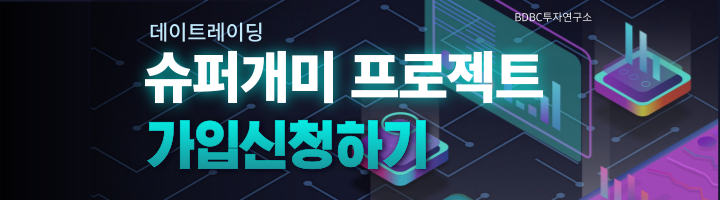
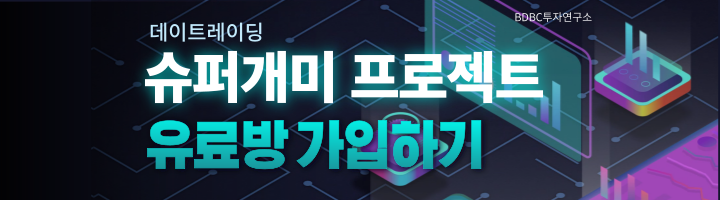
run121221

Changed region(s): [[0.1833, 0.6, 0.6722, 0.87], [0.275, 0.84, 0.3361, 0.87]]

diff --git a/rule/이용약관.html b/rule/이용약관.html
@@ -62,8 +62,15 @@
                 <li><a class="dropdown-item" href="https://bdbcinvest.kro.kr/rule/내부통제기준.html">내부통제 기준</a></li>
               </ul>
             </li>
-            <li class="nav-item">
-              <a class="nav-link" target="_blank" href="https://docs.google.com/forms/d/e/1FAIpQLScll9XCgVUi_xm8oJ2P9vaxQmY382F0giK_-i0nk6JN6NfACQ/viewform?usp=sf_link">가입신청</a>
+            <li class="nav-item dropdown">
+              <a class="nav-link dropdown-toggle" href="#" role="button" data-bs-toggle="dropdown" aria-expanded="false">
+                가입신청
+              </a>
+              <ul class="dropdown-menu">
+                <li><a class="dropdown-item" href="https://t.me/+YQYukZMtKvo5NTM1">무료버전 가입신청</a></li>
+                <li><hr class="dropdown-divider"></li>
+                <li><a class="dropdown-item" href="https://docs.google.com/forms/d/e/1FAIpQLScll9XCgVUi_xm8oJ2P9vaxQmY382F0giK_-i0nk6JN6NfACQ/viewform?usp=sf_link">유료버전 가입신청</a></li>
+              </ul>
             </li>
             <li class="nav-item">
               <a class="nav-link" target="_blank" href="https://happytalk.io/l/rvfoxn">고객센터</a>
@@ -115,6 +122,7 @@
 ① "서비스"라 함은 구현되는 단말기(PC, TV, 휴대형단말기 등의 각종 유무선 장치를 포함)와 상관없이 "회원"이 이용할 수 있는 BDBC투자연구소 및 BDBC투자연구소 관련 제반 서비스를 의미합니다.</br>
 ② "회원"이라 함은 회사의 "서비스"에 접속하여 이 약관에 따라 "회사"와 이용계약을 체결하고 "회사"가 제공하는 "서비스"를 이용하는 고객을 말합니다.</br>
 ③ "유료서비스"라 함은 "회사"가 유료로 제공하는 각종 온라인디지털콘텐츠(각종 정보콘텐츠, VOD, 아이템 기타 유료콘텐츠를 포함) 및 제반 서비스를 의미합니다.</br>
+④ "무료서비스"라 함은 "회사"가 무료로 제공하는 각종 온라인디지털콘텐츠(각종 정보콘텐츠, VOD, 아이템 기타 유료콘텐츠를 포함) 및 제반 서비스를 의미합니다.
 정의한 용어를 제외한 용어의 정의는 거래 관행 및 관련 법령을 따릅니다.</br></br>
 
 
@@ -123,7 +131,8 @@
 
 제 6 조 (이용신청)</br>
 ① 서비스를 이용하고자 하는 고객은 약관의 내용에 대하여 동의를 한 다음 서비스 이용신청을 진행함으로써 이용을 신청합니다.</br>
-② 제1항의 약관 동의 시 서비스를 이용하고자 하는 고객이 "위의 이용약관에 동의하십니까?"라는 이용신청시의 물음에 "동의함" 버튼을 누르면 이 약관에 동의하는 것으로 간주됩니다.</br>
+② "유료서비스"의 경우 제1항의 약관 동의 시 서비스를 이용하고자 하는 고객이 "위의 이용약관에 동의하십니까?"라는 이용신청시의 물음에 "동의함" 버튼을 누르면 이 약관에 동의하는 것으로 간주됩니다.</br>
+④ "무료서비스"의 경우 제1항의 약관 동의 시 서비스를 이용하고자 하는 고객이 "회사"가 운영하는 정보콘텐츠 서비스의 "입장신청" 버튼을 누르면 이 약관에 동의하는 것으로 간주됩니다.</br>
 ③ 온라인 가입신청양식에 기재하는 모든 회원정보는 실제와 일치하는 데이터인 것으로 간주됩니다. 고객이 가입신청양식에 실명이나 실제정보를 입력하지 않은 경우에는 법적인 보호를 받을 수 없으며, 회사는 당해 고객에 대하여 서비스의 이용을 제한할 수 있습니다.</br></br>
 
 제 7 조 (이용신청의 승낙)</br>
@@ -136,7 +145,8 @@
 3. 이용신청자가 회사의 채무자로서 채무를 완제하지 않고 있는 경우</br>
 4. 이용신청자가 이 약관 제22조 제2항에 의거하여 이용계약이 해지된 사실이 있는 경우로서 회사의 서비스 운영을 저해할 것으로 판단되는 경우</br>
 5. 이용신청자가 선량한 풍속 기타 사회질서를 저해하거나 저해할 목적으로 신청한 경우</br>
-6. 제17조 제1항을 위반하여 강제 탈퇴된 사용자와 동일한 IP 또는 동일하거나 유사한 아이디를 사용하는 이용신청자로서 회사의 운영을 저해할 것으로 판단되는 경우</br>
+6. 이용신청자가 서비스를 이용할 때 이용신청자 본인 또는 회사에 심각한 문제가 발생할 것으로 판된되는 경우
+7. 제17조 제1항을 위반하여 강제 탈퇴된 사용자와 동일한 IP 또는 동일하거나 유사한 아이디를 사용하는 이용신청자로서 회사의 운영을 저해할 것으로 판단되는 경우</br>
 ② 회사는 14세 미만 아동의 이용신청에 대하여는 승낙을 하지 않습니다.</br>
 ③ 회사는 다음 각 호에 해당하는 경우에는 그 사유가 해소될 때까지 이용신청에 대한 승낙을 보류할 수 있으며, 그 사유를 웹사이트에 공지합니다.</br>
 1. 설비의 여유가 없는 경우</br>
@@ -160,7 +170,7 @@
 제 12 조 (서비스의 이용요금)</br>
 ① 별도로 표시된 유료서비스를 제외한 모든 서비스는 회원들에게 무료로 제공됩니다.</br>
 ② 유료서비스의 이용요금 및 결제방식은 해당 서비스에 명시되어 있는 별도의 규정에 따릅니다.</br>
-1. 슈퍼개미 프로젝트 – 요금/66,000원, 이용기간/영업일 20일, 결제방식/계좌이체</br></br>
+1. 슈퍼개미 프로젝트 – 요금/44,000원, 이용기간/영업일 20일, 결제방식/계좌이체</br></br>
 
 제 13 조 (서비스의 이용시간)</br>
 ① 서비스의 이용은 연중 무휴, 1일 24시간을 원칙으로 합니다. 다만, 회사는 설비의 정기점검, 보수, 교체 및 고장 등 업무상, 기술상의 이유로 서비스 이용의 전부 또는 일부를 제한할 수 있으며, 이 경우 회사는 사전 또는 사후에 관련 사항을 공지합니다.</br>

diff --git a/index.html b/index.html
@@ -77,8 +77,15 @@
                 <li><a class="dropdown-item" href="https://bdbcinvest.kro.kr/rule/내부통제기준.html">내부통제 기준</a></li>
               </ul>
             </li>
-            <li class="nav-item">
-              <a class="nav-link" target="_blank" href="https://docs.google.com/forms/d/e/1FAIpQLScll9XCgVUi_xm8oJ2P9vaxQmY382F0giK_-i0nk6JN6NfACQ/viewform?usp=sf_link">가입신청</a>
+            <li class="nav-item dropdown">
+              <a class="nav-link dropdown-toggle" href="#" role="button" data-bs-toggle="dropdown" aria-expanded="false">
+                가입신청
+              </a>
+              <ul class="dropdown-menu">
+                <li><a class="dropdown-item" href="https://t.me/+YQYukZMtKvo5NTM1">무료버전 가입신청</a></li>
+                <li><hr class="dropdown-divider"></li>
+                <li><a class="dropdown-item" href="https://docs.google.com/forms/d/e/1FAIpQLScll9XCgVUi_xm8oJ2P9vaxQmY382F0giK_-i0nk6JN6NfACQ/viewform?usp=sf_link">유료버전 가입신청</a></li>
+              </ul>
             </li>
             <li class="nav-item">
               <a class="nav-link" target="_blank" href="https://happytalk.io/l/rvfoxn">고객센터</a>
@@ -93,13 +100,7 @@
 
     <section id="katalkSection">
       <div class="box1">
-        <h3>BDBC 투자철학</h3>
-        <p>Ⅰ. 1%의 세력과 9% 개미가 돈을 벌고 나머지 90%는 돈을 잃는다.</p>
-        <p>Ⅱ. 무조건 성공하는 방법은 없다.</p>
-        <p>Ⅲ. 분산 투자를 통해 리스크를 제한하고 이익을 극대화한다.</p>
-        <p>Ⅳ. 여유자금과 자금 분산을 통해 심리적 안정을 제공한다.</p>
-        <p>Ⅴ. BDBC는 선의의 따라 최고의 정보를 제공한다.</p>
-        <p>그 외 궁금한 내용은 문의해주세요.</p>
+        <img src="mainimage/main123.png" alt="">
       </div>
       <div class="box2">
         <iframe width="100%" height="100%" src="https://www.youtube.com/embed/5r_wWThrkuA?si=OrZgAroWVmm8m9fS" title="YouTube video player" frameborder="0" allow="accelerometer; autoplay; clipboard-write; encrypted-media; gyroscope; picture-in-picture; web-share" referrerpolicy="strict-origin-when-cross-origin" allowfullscreen></iframe>
@@ -107,14 +108,14 @@
     </section>
 
     <section id="bannerSection">
-      <a href="https://bdbcinvest.kro.kr/reading/danta.html" target="_blank" name="스윙방배너">
-        <img src="mainimage/main123.png" alt="">
+      <a href="https://t.me/+YQYukZMtKvo5NTM1" target="_blank" name="스윙방배너">
+        <img src="mainimage/main2.png" alt="">
+      </a>
+      <a href="https://t.me/+YQYukZMtKvo5NTM1" target="_blank" name="문의배너">
+        <img src="mainimage/002.png" alt="">
       </a>
       <a href="https://docs.google.com/forms/d/e/1FAIpQLScll9XCgVUi_xm8oJ2P9vaxQmY382F0giK_-i0nk6JN6NfACQ/viewform?usp=sf_link" target="_blank" name="단타방배너">
         <img src="mainimage/001.png" alt="">
-      </a>
-      <a href="https://happytalk.io/l/rvfoxn" target="_blank" name="문의배너">
-        <img src="mainimage/002.png" alt="">
       </a>
       </a>
     </section>

diff --git a/edu/edu.html b/edu/edu.html
@@ -62,8 +62,15 @@
                 <li><a class="dropdown-item" href="https://bdbcinvest.kro.kr/rule/내부통제기준.html">내부통제 기준</a></li>
               </ul>
             </li>
-            <li class="nav-item">
-              <a class="nav-link" target="_blank" href="https://docs.google.com/forms/d/e/1FAIpQLScll9XCgVUi_xm8oJ2P9vaxQmY382F0giK_-i0nk6JN6NfACQ/viewform?usp=sf_link">가입신청</a>
+            <li class="nav-item dropdown">
+              <a class="nav-link dropdown-toggle" href="#" role="button" data-bs-toggle="dropdown" aria-expanded="false">
+                가입신청
+              </a>
+              <ul class="dropdown-menu">
+                <li><a class="dropdown-item" href="https://t.me/+YQYukZMtKvo5NTM1">무료버전 가입신청</a></li>
+                <li><hr class="dropdown-divider"></li>
+                <li><a class="dropdown-item" href="https://docs.google.com/forms/d/e/1FAIpQLScll9XCgVUi_xm8oJ2P9vaxQmY382F0giK_-i0nk6JN6NfACQ/viewform?usp=sf_link">유료버전 가입신청</a></li>
+              </ul>
             </li>
             <li class="nav-item">
               <a class="nav-link" target="_blank" href="https://happytalk.io/l/rvfoxn">고객센터</a>

diff --git a/edu/edu2.html b/edu/edu2.html
@@ -62,8 +62,15 @@
                 <li><a class="dropdown-item" href="https://bdbcinvest.kro.kr/rule/내부통제기준.html">내부통제 기준</a></li>
               </ul>
             </li>
-            <li class="nav-item">
-              <a class="nav-link" target="_blank" href="https://docs.google.com/forms/d/e/1FAIpQLScll9XCgVUi_xm8oJ2P9vaxQmY382F0giK_-i0nk6JN6NfACQ/viewform?usp=sf_link">가입신청</a>
+            <li class="nav-item dropdown">
+              <a class="nav-link dropdown-toggle" href="#" role="button" data-bs-toggle="dropdown" aria-expanded="false">
+                가입신청
+              </a>
+              <ul class="dropdown-menu">
+                <li><a class="dropdown-item" href="https://t.me/+YQYukZMtKvo5NTM1">무료버전 가입신청</a></li>
+                <li><hr class="dropdown-divider"></li>
+                <li><a class="dropdown-item" href="https://docs.google.com/forms/d/e/1FAIpQLScll9XCgVUi_xm8oJ2P9vaxQmY382F0giK_-i0nk6JN6NfACQ/viewform?usp=sf_link">유료버전 가입신청</a></li>
+              </ul>
             </li>
             <li class="nav-item">
               <a class="nav-link" target="_blank" href="https://happytalk.io/l/rvfoxn">고객센터</a>

diff --git a/faker/faker.html b/faker/faker.html
@@ -62,8 +62,15 @@
                 <li><a class="dropdown-item" href="https://bdbcinvest.kro.kr/rule/내부통제기준.html">내부통제 기준</a></li>
               </ul>
             </li>
-            <li class="nav-item">
-              <a class="nav-link" target="_blank" href="https://docs.google.com/forms/d/e/1FAIpQLScll9XCgVUi_xm8oJ2P9vaxQmY382F0giK_-i0nk6JN6NfACQ/viewform?usp=sf_link">가입신청</a>
+            <li class="nav-item dropdown">
+              <a class="nav-link dropdown-toggle" href="#" role="button" data-bs-toggle="dropdown" aria-expanded="false">
+                가입신청
+              </a>
+              <ul class="dropdown-menu">
+                <li><a class="dropdown-item" href="https://t.me/+YQYukZMtKvo5NTM1">무료버전 가입신청</a></li>
+                <li><hr class="dropdown-divider"></li>
+                <li><a class="dropdown-item" href="https://docs.google.com/forms/d/e/1FAIpQLScll9XCgVUi_xm8oJ2P9vaxQmY382F0giK_-i0nk6JN6NfACQ/viewform?usp=sf_link">유료버전 가입신청</a></li>
+              </ul>
             </li>
             <li class="nav-item">
               <a class="nav-link" target="_blank" href="https://happytalk.io/l/rvfoxn">고객센터</a>

diff --git a/introduce/intro.html b/introduce/intro.html
@@ -62,8 +62,15 @@
                 <li><a class="dropdown-item" href="https://bdbcinvest.kro.kr/rule/내부통제기준.html">내부통제 기준</a></li>
               </ul>
             </li>
-            <li class="nav-item">
-              <a class="nav-link" target="_blank" href="https://docs.google.com/forms/d/e/1FAIpQLScll9XCgVUi_xm8oJ2P9vaxQmY382F0giK_-i0nk6JN6NfACQ/viewform?usp=sf_link">가입신청</a>
+            <li class="nav-item dropdown">
+              <a class="nav-link dropdown-toggle" href="#" role="button" data-bs-toggle="dropdown" aria-expanded="false">
+                가입신청
+              </a>
+              <ul class="dropdown-menu">
+                <li><a class="dropdown-item" href="https://t.me/+YQYukZMtKvo5NTM1">무료버전 가입신청</a></li>
+                <li><hr class="dropdown-divider"></li>
+                <li><a class="dropdown-item" href="https://docs.google.com/forms/d/e/1FAIpQLScll9XCgVUi_xm8oJ2P9vaxQmY382F0giK_-i0nk6JN6NfACQ/viewform?usp=sf_link">유료버전 가입신청</a></li>
+              </ul>
             </li>
             <li class="nav-item">
               <a class="nav-link" target="_blank" href="https://happytalk.io/l/rvfoxn">고객센터</a>

diff --git a/reading/슈퍼개미프로젝트.html b/reading/슈퍼개미프로젝트.html
@@ -62,8 +62,15 @@
                 <li><a class="dropdown-item" href="https://bdbcinvest.kro.kr/rule/내부통제기준.html">내부통제 기준</a></li>
               </ul>
             </li>
-            <li class="nav-item">
-              <a class="nav-link" target="_blank" href="https://docs.google.com/forms/d/e/1FAIpQLScll9XCgVUi_xm8oJ2P9vaxQmY382F0giK_-i0nk6JN6NfACQ/viewform?usp=sf_link">가입신청</a>
+            <li class="nav-item dropdown">
+              <a class="nav-link dropdown-toggle" href="#" role="button" data-bs-toggle="dropdown" aria-expanded="false">
+                가입신청
+              </a>
+              <ul class="dropdown-menu">
+                <li><a class="dropdown-item" href="https://t.me/+YQYukZMtKvo5NTM1">무료버전 가입신청</a></li>
+                <li><hr class="dropdown-divider"></li>
+                <li><a class="dropdown-item" href="https://docs.google.com/forms/d/e/1FAIpQLScll9XCgVUi_xm8oJ2P9vaxQmY382F0giK_-i0nk6JN6NfACQ/viewform?usp=sf_link">유료버전 가입신청</a></li>
+              </ul>
             </li>
             <li class="nav-item">
               <a class="nav-link" target="_blank" href="https://happytalk.io/l/rvfoxn">고객센터</a>

diff --git a/rule/개인정보처리방침.html b/rule/개인정보처리방침.html
@@ -62,8 +62,15 @@
                 <li><a class="dropdown-item" href="https://bdbcinvest.kro.kr/rule/내부통제기준.html">내부통제 기준</a></li>
               </ul>
             </li>
-            <li class="nav-item">
-              <a class="nav-link" target="_blank" href="https://docs.google.com/forms/d/e/1FAIpQLScll9XCgVUi_xm8oJ2P9vaxQmY382F0giK_-i0nk6JN6NfACQ/viewform?usp=sf_link">가입신청</a>
+            <li class="nav-item dropdown">
+              <a class="nav-link dropdown-toggle" href="#" role="button" data-bs-toggle="dropdown" aria-expanded="false">
+                가입신청
+              </a>
+              <ul class="dropdown-menu">
+                <li><a class="dropdown-item" href="https://t.me/+YQYukZMtKvo5NTM1">무료버전 가입신청</a></li>
+                <li><hr class="dropdown-divider"></li>
+                <li><a class="dropdown-item" href="https://docs.google.com/forms/d/e/1FAIpQLScll9XCgVUi_xm8oJ2P9vaxQmY382F0giK_-i0nk6JN6NfACQ/viewform?usp=sf_link">유료버전 가입신청</a></li>
+              </ul>
             </li>
             <li class="nav-item">
               <a class="nav-link" target="_blank" href="https://happytalk.io/l/rvfoxn">고객센터</a>

diff --git a/rule/게시물운영및저작권정책.html b/rule/게시물운영및저작권정책.html
@@ -62,8 +62,15 @@
                 <li><a class="dropdown-item" href="https://bdbcinvest.kro.kr/rule/내부통제기준.html">내부통제 기준</a></li>
               </ul>
             </li>
-            <li class="nav-item">
-              <a class="nav-link" target="_blank" href="https://docs.google.com/forms/d/e/1FAIpQLScll9XCgVUi_xm8oJ2P9vaxQmY382F0giK_-i0nk6JN6NfACQ/viewform?usp=sf_link">가입신청</a>
+            <li class="nav-item dropdown">
+              <a class="nav-link dropdown-toggle" href="#" role="button" data-bs-toggle="dropdown" aria-expanded="false">
+                가입신청
+              </a>
+              <ul class="dropdown-menu">
+                <li><a class="dropdown-item" href="https://t.me/+YQYukZMtKvo5NTM1">무료버전 가입신청</a></li>
+                <li><hr class="dropdown-divider"></li>
+                <li><a class="dropdown-item" href="https://docs.google.com/forms/d/e/1FAIpQLScll9XCgVUi_xm8oJ2P9vaxQmY382F0giK_-i0nk6JN6NfACQ/viewform?usp=sf_link">유료버전 가입신청</a></li>
+              </ul>
             </li>
             <li class="nav-item">
               <a class="nav-link" target="_blank" href="https://happytalk.io/l/rvfoxn">고객센터</a>

diff --git a/rule/내부통제기준.html b/rule/내부통제기준.html
@@ -62,8 +62,15 @@
                 <li><a class="dropdown-item" href="https://bdbcinvest.kro.kr/rule/내부통제기준.html">내부통제 기준</a></li>
               </ul>
             </li>
-            <li class="nav-item">
-              <a class="nav-link" target="_blank" href="https://docs.google.com/forms/d/e/1FAIpQLScll9XCgVUi_xm8oJ2P9vaxQmY382F0giK_-i0nk6JN6NfACQ/viewform?usp=sf_link">가입신청</a>
+            <li class="nav-item dropdown">
+              <a class="nav-link dropdown-toggle" href="#" role="button" data-bs-toggle="dropdown" aria-expanded="false">
+                가입신청
+              </a>
+              <ul class="dropdown-menu">
+                <li><a class="dropdown-item" href="https://t.me/+YQYukZMtKvo5NTM1">무료버전 가입신청</a></li>
+                <li><hr class="dropdown-divider"></li>
+                <li><a class="dropdown-item" href="https://docs.google.com/forms/d/e/1FAIpQLScll9XCgVUi_xm8oJ2P9vaxQmY382F0giK_-i0nk6JN6NfACQ/viewform?usp=sf_link">유료버전 가입신청</a></li>
+              </ul>
             </li>
             <li class="nav-item">
               <a class="nav-link" target="_blank" href="https://happytalk.io/l/rvfoxn">고객센터</a>

diff --git a/rule/전문가윤리강령.html b/rule/전문가윤리강령.html
@@ -62,8 +62,15 @@
                 <li><a class="dropdown-item" href="https://bdbcinvest.kro.kr/rule/내부통제기준.html">내부통제 기준</a></li>
               </ul>
             </li>
-            <li class="nav-item">
-              <a class="nav-link" target="_blank" href="https://docs.google.com/forms/d/e/1FAIpQLScll9XCgVUi_xm8oJ2P9vaxQmY382F0giK_-i0nk6JN6NfACQ/viewform?usp=sf_link">가입신청</a>
+            <li class="nav-item dropdown">
+              <a class="nav-link dropdown-toggle" href="#" role="button" data-bs-toggle="dropdown" aria-expanded="false">
+                가입신청
+              </a>
+              <ul class="dropdown-menu">
+                <li><a class="dropdown-item" href="https://t.me/+YQYukZMtKvo5NTM1">무료버전 가입신청</a></li>
+                <li><hr class="dropdown-divider"></li>
+                <li><a class="dropdown-item" href="https://docs.google.com/forms/d/e/1FAIpQLScll9XCgVUi_xm8oJ2P9vaxQmY382F0giK_-i0nk6JN6NfACQ/viewform?usp=sf_link">유료버전 가입신청</a></li>
+              </ul>
             </li>
             <li class="nav-item">
               <a class="nav-link" target="_blank" href="https://happytalk.io/l/rvfoxn">고객센터</a>

diff --git a/rule/준법서약서.html b/rule/준법서약서.html
@@ -62,8 +62,15 @@
                 <li><a class="dropdown-item" href="https://bdbcinvest.kro.kr/rule/내부통제기준.html">내부통제 기준</a></li>
               </ul>
             </li>
-            <li class="nav-item">
-              <a class="nav-link" target="_blank" href="https://docs.google.com/forms/d/e/1FAIpQLScll9XCgVUi_xm8oJ2P9vaxQmY382F0giK_-i0nk6JN6NfACQ/viewform?usp=sf_link">가입신청</a>
+            <li class="nav-item dropdown">
+              <a class="nav-link dropdown-toggle" href="#" role="button" data-bs-toggle="dropdown" aria-expanded="false">
+                가입신청
+              </a>
+              <ul class="dropdown-menu">
+                <li><a class="dropdown-item" href="https://t.me/+YQYukZMtKvo5NTM1">무료버전 가입신청</a></li>
+                <li><hr class="dropdown-divider"></li>
+                <li><a class="dropdown-item" href="https://docs.google.com/forms/d/e/1FAIpQLScll9XCgVUi_xm8oJ2P9vaxQmY382F0giK_-i0nk6JN6NfACQ/viewform?usp=sf_link">유료버전 가입신청</a></li>
+              </ul>
             </li>
             <li class="nav-item">
               <a class="nav-link" target="_blank" href="https://happytalk.io/l/rvfoxn">고객센터</a>
